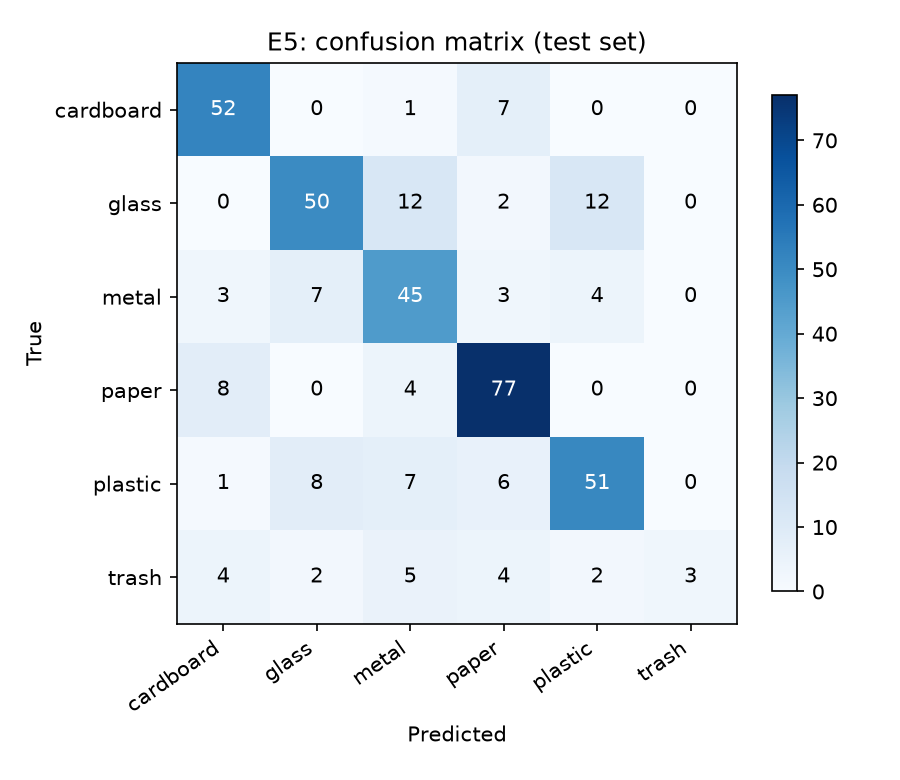
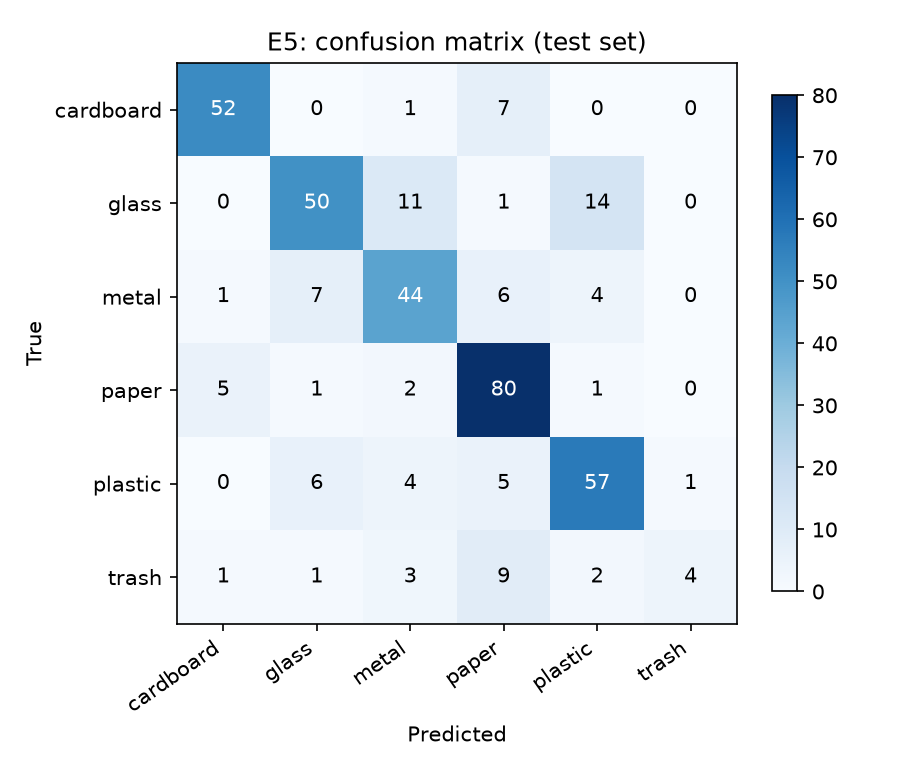
fix: rerun E5 with frozen BatchNorm and correct README conclusions

diff --git a/README.md b/README.md
@@ -16,7 +16,7 @@ The split is stratified 70 / 15 / 15 (1,768 train, 379 validation, 380 test) wit
 
 ## Experiments
 
-Each experiment changes one thing from the one before it. All ran for 10 epochs with batch size 32 and kept the weights with the best validation accuracy.
+Each experiment makes one main change from the run it builds on: E2 builds on E1, E3 on E2, E4 on E3, and E5 on E3. All ran for 10 epochs with batch size 32 and kept the weights with the best validation accuracy.
 
 | ID | What changed | Trainable parameters | Test accuracy | Macro F1 | `trash` F1 | Training time |
 |----|---|---:|---:|---:|---:|---:|
@@ -24,7 +24,7 @@ Each experiment changes one thing from the one before it. All ran for 10 epochs 
 | E2 | Smaller head: `Linear(25088→1024)`, ReLU, `Dropout(0.3)`, `Linear(1024→6)` | 25,697,286 | 84.7 % | 0.833 | 0.743 | 276 s |
 | E3 | Optimiser: Adam, lr 1e-4, instead of SGD | 25,697,286 | 84.5 % | 0.833 | 0.757 | 280 s |
 | E4 | Fine-tuning: last conv block unfrozen, lr 1e-5 for conv and 1e-4 for head | 32,776,710 | 84.2 % | 0.817 | 0.645 | 303 s |
-| E5 | Different architecture: frozen MobileNetV2 | 7,686 | 73.2 % | 0.662 | 0.261 | 253 s |
+| E5 | Different architecture: frozen MobileNetV2 | 7,686 | 75.5 % | 0.694 | 0.320 | 226 s |
 
 Times are from an RTX 4060 laptop GPU.
 
@@ -32,10 +32,10 @@ Times are from an RTX 4060 laptop GPU.
 
 ### What we learned
 
-- **Smaller head (E1→E2):** about 4.6× fewer trainable parameters cost 1.8 points of accuracy. The saved model shrinks from 537 MB to 162 MB.
+- **Smaller head (E1→E2):** about 4.6× fewer trainable parameters shrink the saved model from 537 MB to 162 MB. Accuracy is 1.8 points lower, which is 7 of 380 test images and within noise. This isn't purely a size effect: E1 keeps VGG16's ImageNet-pretrained fully connected layers, while E2's new head starts from random weights and uses dropout 0.3 instead of 0.5. Training time barely changed (285 s vs 276 s).
 - **Optimiser (E2→E3):** Adam and SGD gave practically the same result.
-- **Fine-tuning (E3→E4):** this did not help. Training accuracy reached 99.8 % while validation stayed at 84.4 %, which is overfitting, and `trash` F1 fell to 0.645. With only about 1,800 training images, the extra trainable layers memorised the data.
-- **MobileNetV2 (E5):** training accuracy was only 77.6 % at epoch 10 and still rising, so this model was under-trained rather than simply worse. More epochs or a higher learning rate may narrow the gap.
+- **Fine-tuning (E3→E4):** no measurable gain on this seed. The VGG heads overfit quickly even without fine-tuning: training accuracy reached 99.1 % in E2 and 99.7 % in E3, while validation stayed around 83–84 %. E4's validation accuracy moved between 81.8 % and 84.4 % and peaked at epoch 2 (tied with epoch 10, and the earlier epoch is kept), so the tested E4 model comes from epoch 2.
+- **MobileNetV2 (E3→E5):** this is the smallest model, with a 9 MB file, and the least accurate. Training accuracy (81.6 %) and validation accuracy (77.0 %) were both still rising at epoch 10, so it was under-trained at this learning rate. More epochs may narrow the gap, but we didn't measure that. Its frozen BatchNorm layers must stay in eval mode; an earlier run that let their statistics change scored 73.2 % (see `results/training_log.txt`).
 
 ### Confusion matrix of the best model
 
@@ -46,9 +46,9 @@ The most common mistakes are glass predicted as metal or plastic (7 each) and pl
 ## Limitations
 
 - **Small differences between E1–E4 are not conclusive.** Each experiment ran once, with one seed. E1 and E4 differ by 9 of 380 test images, and the 95 % margin on 86.6 % is about ±3.4 points.
-- **86.6 % is slightly optimistic.** The best model was chosen using test accuracy, so the test set is not fully independent of that choice. By validation accuracy alone, E4 (84.4 %) would edge out E1 (83.6 %).
+- **86.6 % is slightly optimistic.** The best model was chosen using test accuracy, so the test set is not fully independent of that choice. E1 ranks only third on validation accuracy (E4 84.4 %, E3 84.2 %, E1 83.6 %). Choosing by validation would pick E4, whose test accuracy of 84.2 % is just under our 85 % target.
 - **Real photos may score lower.** TrashNet photos show one item on a white background. The model has not been measured on phone photos with cluttered backgrounds.
-- **It can't recognise things that aren't waste.** It always picks one of the 6 classes. The "Not sure" warning appears when the top probability is below 50 %, but it doesn't catch everything: a pure-noise image got "cardboard, 86 %" with no warning.
+- **It can't recognise things that aren't waste.** It always picks one of the 6 classes. The "Not sure" warning appears when the top probability is below 50 %, but it doesn't catch everything. Without any warning, a photo of a building got "cardboard, 51 %" and a photo of a flower got "plastic, 68 %".
 - **Bin names and colours are illustrative.** They are not an official Kazakhstan standard.
 
 ## Run the app
@@ -63,19 +63,21 @@ python -m venv .venv
 
 Then open http://localhost:7860. On macOS or Linux, use `.venv/bin/` instead of `.venv/Scripts/`.
 
-The app needs `weights/best.pt`, which isn't in the repository because it is 537 MB. Copy it from the team's shared folder, or create it by training (below).
+The app needs `weights/best.pt`, which isn't in the repository because it is 537 MB. Download it from the team's shared folder (link to be added once uploaded), or create it by training (below).
 
 ## Train the models
+
+The repository already includes our results, and experiments listed in `results/results.csv` are skipped. To retrain, delete that file first, then run:
 
 ```bash
 .venv/Scripts/python run_experiments.py
 ```
 
-This downloads TrashNet and trains every experiment, which takes about 25 minutes on an RTX 4060. If a run is interrupted, run it again: finished experiments are skipped. To start from scratch, delete `results/results.csv`.
+This downloads TrashNet and trains every experiment, which takes about 25 minutes on an RTX 4060. If a run is interrupted, run the same command again: finished experiments are skipped.
 
 `torch` from `requirements.txt` may be a CPU-only build, depending on your platform. To train on an NVIDIA GPU, install a CUDA build from [pytorch.org](https://pytorch.org/get-started/locally/).
 
-No GPU? Use [`notebooks/smartbin_training.ipynb`](notebooks/smartbin_training.ipynb) on Google Colab. It runs the same code.
+No GPU? Use [`notebooks/smartbin_training.ipynb`](notebooks/smartbin_training.ipynb) on Google Colab. It runs the same code. Our results came from the local GPU run, so the notebook hasn't been run on Colab itself yet.
 
 ## Tests
 
@@ -96,5 +98,5 @@ The tests run on CPU and don't download pretrained weights.
 | `run_experiments.py` | Runs the whole pipeline |
 | `app.py` | Gradio app |
 | `notebooks/` | Colab version of the training run |
-| `results/` | Results table, charts, per-class reports, and training logs |
-| `Dockerfile` | Optional CPU container for the app (mount `weights/` at `/app/weights`) |
+| `results/` | Results table, charts, per-class reports, and training logs (`training_log_part1.txt` has E1–E3, `training_log.txt` has E4 and the earlier E5 run, `training_log_E5_rerun.txt` has the final E5) |
+| `Dockerfile` | Optional CPU container for the app (mount `weights/` at `/app/weights`). Not built or tested yet. |
